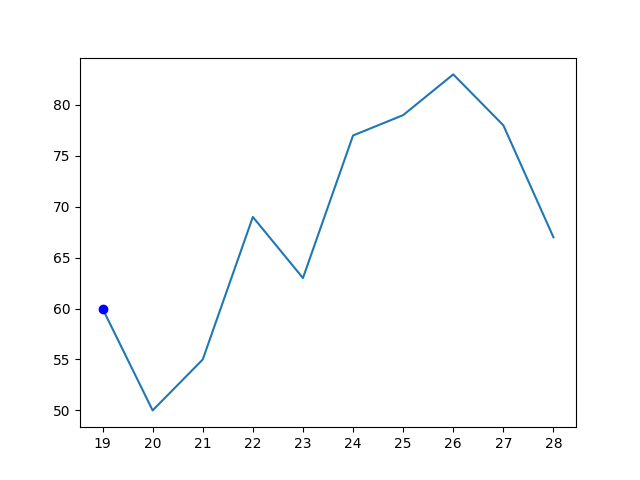
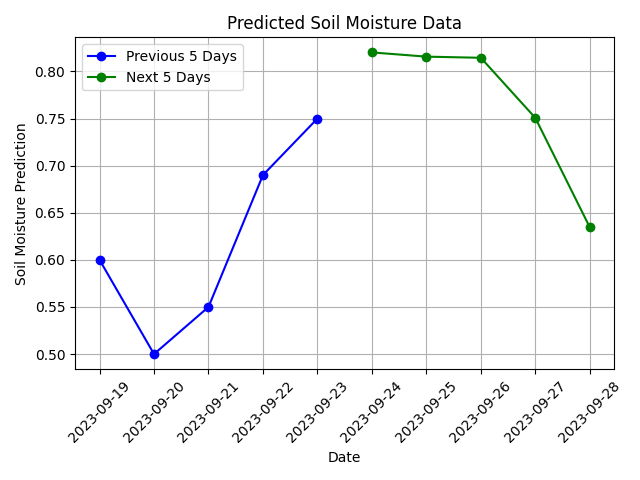
Updated Graphs

diff --git a/templates/chart.html b/templates/chart.html
@@ -2,7 +2,7 @@
 <html lang="en">
 
 <head>
-	<title>Matploth3b Plot</title>
+	<title>Soil Moisture Prediction Plot</title>
 	<meta name="viewport" content="width=device-width, initial-scale=1.0">
 	<style>
 		.div-cent{
@@ -15,7 +15,7 @@
 		@media (max-width: 768px) {
 		img {
 			width: 85%;
-			height: 40%;
+			height: 60%;
 		}
 }
 	</style>
@@ -24,13 +24,8 @@
 <body>
 	<div class="div-cent">
 		<h1>Soil Moisture Prediction for the next 5 days</h1>
-		<h2>The Prediction of soil moisture data from ML model of next 5 days:</h2>
-			<h3>{{no[0]}}th Sep: {{moisture_data[0]}}%</h3>
-			<h3>{{no[1]}}th Sep: {{moisture_data[1]}}%</h3>
-			<h3>{{no[2]}}th Sep: {{moisture_data[2]}}%</h3>
-			<h3>{{no[3]}}th Sep: {{moisture_data[3]}}%</h3>
-			<h3>{{no[4]}}th Sep: {{moisture_data[4]}}%</h3>
-		<img src="{{ url_for('static', filename='images/plot.png') }}"">
+	
+		<img src="{{ url_for('static', filename='images/plot.png') }}" />
 	</div>
 </body>
 

diff --git a/templates/index.html b/templates/index.html
@@ -3,7 +3,10 @@
 <head>
     <meta charset="UTF-8">
     <meta name="viewport" content="width=device-width, initial-scale=1.0">
-    <title>SMART FARMING</title>
+    <meta name="mobile-web-app-capable" content="yes">
+    <meta name="theme-color" content="#ffffff">
+    <link rel="icon" sizes="192x192" href="{{ url_for('static', filename='logo.png') }}">
+    <title>Krishi Connect</title>
     <link href="https://cdn.jsdelivr.net/npm/bootstrap@5.3.0-alpha3/dist/css/bootstrap.min.css" rel="stylesheet"
     integrity="sha384-KK94CHFLLe+nY2dmCWGMq91rCGa5gtU4mk92HdvYe+M/SXH301p5ILy+dN9+nJOZ" crossorigin="anonymous">
     <link rel="stylesheet" href="{{ url_for('static', filename='style.css') }}">

diff --git a/templates/index1.html b/templates/index1.html
@@ -2,7 +2,7 @@
 <html lang="en">
 
 <head>
-	<title>Matplotlib Plot</title>
+	<title>Rain Prediction Plot</title>
 	<meta name="viewport" content="width=device-width, initial-scale=1.0">
 	<style>
 		.div-cent{

diff --git a/app.py b/app.py
@@ -6,18 +6,15 @@ import joblib
 import requests
 from datetime import datetime,timedelta
 
-yes,no=[],[]
-presentday = datetime.now()
-for i in range(0,4):
-     a = presentday-timedelta(4-i)
-     yes.append(a.strftime("%d"))
-for i in range(0,5):
-     b = presentday+timedelta(i+1)    
-     no.append(b.strftime("%d"))
+def get_future_dates(start_date, num_days):
+    dates = []
+    for day in range(num_days):
+        date = start_date + timedelta(days=day)
+        dates.append(date.strftime("%Y-%m-%d"))
+    return dates
+
 url = "https://api.tomorrow.io/v4/weather/forecast?location=kolkata&timesteps=daily&apikey=NWbU1ceSDImxoVp6CmKLzUrXScmgL1c2"
-
 headers = {"accept": "application/json"}
-
 response = requests.get(url, headers=headers)
 data = response.json()  # Parse the JSON response
 
@@ -30,7 +27,6 @@ humidity_data = []
 pressure_data = []
 windspeed_data = []
 rain_data = []
-moisture_data = []
 
 # Extract data for each day
 for day_data in daily_forecast:
@@ -40,65 +36,84 @@ for day_data in daily_forecast:
     windspeed = day_data['values']['windSpeedAvg']
     rain = day_data['values']['rainAccumulationAvg']
     
-    # Add your code here to calculate or fetch moisture data
-    # For now, I'm setting it to a placeholder value
-    
-    
-    # Append data to respective lists
     temperature_data.append(temperature)
     humidity_data.append(humidity)
     pressure_data.append(pressure)
     windspeed_data.append(windspeed)
     rain_data.append(rain)
 
-
+# Load the soil moisture prediction model
 model = joblib.load('soil_moisture_model.pkl')
 
 # Create a list of input values and reshape it to match the model's input format
+input_data = []
 for day in range(5):
-    input_data = [[temperature_data[day], humidity_data[day], pressure_data[day]/10, windspeed_data[day], rain_data[day]]]
+    input_data.append([temperature_data[day], humidity_data[day], pressure_data[day]/10, windspeed_data[day], rain_data[day]])
 
-    # Make predictions
-    soil_moisture_prediction = model.predict(input_data)
+# Make predictions for the next 5 days
+soil_moisture_predictions = model.predict(input_data)
 
-    # Print the predicted soil moisture value
-    moisture_data.append(round(soil_moisture_prediction[0]*100, 2))
+# Synthetic data for the previous 5 days (you can replace this with actual data)
+synthetic_data = [0.60, 0.50, 0.55, 0.69, 0.75]
 
+# Combine the previous and next 5 days of soil moisture data
+soil_moisture_data = synthetic_data + list(soil_moisture_predictions)
 
-x = np.array([yes[0],yes[1],yes[2],yes[3],presentday.strftime("%d"),no[0],no[1],no[2],no[3],no[4]]) # array to be plotted
-y = np.array([60,50,55,69,63,0,0,0,0,0]) # array to be plotted
-for i in range(5):
-    y[5+i] = moisture_data[i]
+# Get future dates
+current_date = datetime.now()
+future_dates = get_future_dates(current_date, 5)
+past_dates = get_future_dates(current_date - timedelta(days=5), 5)
 
-subArray = [60,moisture_data[4]] 
-ids = np.nonzero(np.in1d(y, subArray))[0]
+# Plot soil moisture data with different colors and labels
+plt.plot(past_dates, synthetic_data, label='Previous 5 Days', color='blue', marker='o')
+plt.plot(future_dates, soil_moisture_predictions, label='Next 5 Days', color='green', marker='o')
 
-plt.plot(x,y)
-plt.plot(x[ids], y[ids], 'bo')
+# Rotate x-axis labels for better visibility
+plt.xticks(rotation=45)
+
+# Add labels and legend
+plt.xlabel('Date')
+plt.ylabel('Soil Moisture Prediction')
+plt.legend()
+plt.title('Predicted Soil Moisture Data')
+plt.grid(True)
+
+# Show the plot
+plt.tight_layout()
+# plt.show()
 plt.savefig(os.path.join('static', 'images', 'plot.png'))
 plt.close('all')
 
-x1 = np.array([no[0],no[1],no[2],no[3],no[4]]) # array to be plotted
-y1 = np.array([0,0,0,0,0]) # array to be plotted
-for i in range(5):
-    y1[i] = rain_data[i]
+x1 = np.array([0, 1, 2, 3, 4])  # Use day indices as x-axis values
+y1 = np.array(rain_data)
 
-subArray = [rain_data[0],rain_data[4]] 
+# Set tick labels for the x-axis
+x_labels = [day_data['time'][:10] for day_data in daily_forecast]
+plt.xticks(x1, x_labels, rotation=45)
+
+subArray = [rain_data[0], rain_data[4]]
 ids1 = np.nonzero(np.in1d(y1, subArray))[0]
 
-plt.plot(x1,y1)
+plt.plot(x1, y1)
 plt.plot(x1[ids1], y1[ids1], 'bo')
 
+plt.xlabel('Date')
+plt.ylabel('Rain Accumulation (Avg)')
+plt.title('Predicted Rain Data')
+plt.grid(True)
+
+# Adjust the margins to ensure the entire plot is visible
+plt.subplots_adjust(bottom=0.2)
 # Save the figure in the static directory
 plt.savefig(os.path.join('static', 'images', 'plot2.png'))
 print("plot generated!")
 
 app = Flask(__name__)
-
+esp_url = "http://192.168.95.93"
 # Function to fetch temperature data
 def fetch_temperature():
     try:
-        response = requests.get('http://192.168.95.93/temperature')
+        response = requests.get(f'{esp_url}/temperature')
         if response.status_code == 200:
             return response.text
     except Exception as e:
@@ -107,7 +122,7 @@ def fetch_temperature():
 
 def fetch_humidity():
     try:
-        response = requests.get('http://192.168.95.93/humidity')
+        response = requests.get(f'{esp_url}/humidity')
         if response.status_code == 200:
             return response.text
     except Exception as e:
@@ -116,7 +131,7 @@ def fetch_humidity():
 
 def fetch_ldr():
     try:
-        response = requests.get('http://192.168.95.93/ldr')
+        response = requests.get(f'{esp_url}/ldr')
         if response.status_code == 200:
             return response.text
     except Exception as e:
@@ -125,7 +140,7 @@ def fetch_ldr():
 
 def fetch_soil():
     try:
-        response = requests.get('http://192.168.95.93/soil-mois')
+        response = requests.get(f'{esp_url}/soil-mois')
         if response.status_code == 200:
             return response.text
     except Exception as e:
@@ -134,7 +149,7 @@ def fetch_soil():
 
 def fetch_rain():
     try:
-        response = requests.get('http://192.168.95.93/rain')
+        response = requests.get(f'{esp_url}/rain')
         if response.status_code == 200:
             return response.text
     except Exception as e:
@@ -176,7 +191,8 @@ def index1():
 
 @app.route('/chart_soilms')
 def single_converter():
-    return render_template('chart.html',moisture_data=moisture_data, no=no)
+    soilms_data = [round(i, 3) for i in soil_moisture_predictions]
+    return render_template('chart.html', no=future_dates)
 
 
 if __name__ == '__main__':\

diff --git a/TEST.PY b/TEST.PY
@@ -1,10 +1,20 @@
 import joblib
 import requests
+import numpy as np
+import matplotlib.pyplot as plt
+from datetime import datetime, timedelta
 
+# Function to get future dates
+def get_future_dates(start_date, num_days):
+    dates = []
+    for day in range(num_days):
+        date = start_date + timedelta(days=day)
+        dates.append(date.strftime("%Y-%m-%d"))
+    return dates
+
+# API request to get future weather data
 url = "https://api.tomorrow.io/v4/weather/forecast?location=kolkata&timesteps=daily&apikey=NWbU1ceSDImxoVp6CmKLzUrXScmgL1c2"
-
 headers = {"accept": "application/json"}
-
 response = requests.get(url, headers=headers)
 data = response.json()  # Parse the JSON response
 
@@ -26,30 +36,48 @@ for day_data in daily_forecast:
     windspeed = day_data['values']['windSpeedAvg']
     rain = day_data['values']['rainAccumulationAvg']
     
-    # Add your code here to calculate or fetch moisture data
-    # For now, I'm setting it to a placeholder value
-    
-    
-    # Append data to respective lists
     temperature_data.append(temperature)
     humidity_data.append(humidity)
     pressure_data.append(pressure)
     windspeed_data.append(windspeed)
     rain_data.append(rain)
 
-# Print the extracted data for 5 days
-# for day in range(5):
-    # print(f"Day {day + 1} - Temperature: {temperature_data[day]}°C, Humidity: {humidity_data[day]}%, Pressure: {pressure_data[day]} hPa, Wind Speed: {windspeed_data[day]} m/s")
-
-
+# Load the soil moisture prediction model
 model = joblib.load('soil_moisture_model.pkl')
 
 # Create a list of input values and reshape it to match the model's input format
+input_data = []
 for day in range(5):
-    input_data = [[temperature_data[day], humidity_data[day], pressure_data[day]/10, windspeed_data[day], rain_data[day]]]
+    input_data.append([temperature_data[day], humidity_data[day], pressure_data[day]/10, windspeed_data[day], rain_data[day]])
 
-    # Make predictions
-    soil_moisture_prediction = model.predict(input_data)
+# Make predictions for the next 5 days
+soil_moisture_predictions = model.predict(input_data)
 
-    # Print the predicted soil moisture value
-    print(f"Predicted Soil Moisture for day{day+1}: {round(soil_moisture_prediction[0]*100, 2)}%")
+# Synthetic data for the previous 5 days (you can replace this with actual data)
+synthetic_data = [0.60, 0.50, 0.55, 0.69, 0.63]
+
+# Combine the previous and next 5 days of soil moisture data
+soil_moisture_data = synthetic_data + list(soil_moisture_predictions)
+
+# Get future dates
+current_date = datetime.now()
+future_dates = get_future_dates(current_date, 5)
+past_dates = get_future_dates(current_date - timedelta(days=5), 5)
+
+# Plot soil moisture data with different colors and labels
+plt.plot(past_dates, synthetic_data, label='Previous 5 Days', color='blue', marker='o')
+plt.plot(future_dates, soil_moisture_predictions, label='Next 5 Days', color='green', marker='o')
+
+# Rotate x-axis labels for better visibility
+plt.xticks(rotation=45)
+
+# Add labels and legend
+plt.xlabel('Date')
+plt.ylabel('Soil Moisture Prediction')
+plt.legend()
+plt.title('Predicted Soil Moisture Data')
+plt.grid(True)
+
+# Show the plot
+plt.tight_layout()
+plt.show()

diff --git a/test/weather.py b/test/weather.py
@@ -1,0 +1,42 @@
+import requests
+import numpy as np
+import os
+import matplotlib.pyplot as plt
+
+url = "https://api.tomorrow.io/v4/weather/forecast?location=kolkata&timesteps=daily&apikey=NWbU1ceSDImxoVp6CmKLzUrXScmgL1c2"
+
+headers = {"accept": "application/json"}
+
+response = requests.get(url, headers=headers)
+data = response.json()
+
+daily_forecast = data['timelines']['daily'][:5]
+rain_data = []
+
+for day_data in daily_forecast:
+    rain = day_data['values']['rainAccumulationAvg']
+    rain_data.append(rain)
+
+x1 = np.array([0, 1, 2, 3, 4])  # Use day indices as x-axis values
+y1 = np.array(rain_data)
+
+# Set tick labels for the x-axis
+x_labels = [day_data['time'][:10] for day_data in daily_forecast]
+plt.xticks(x1, x_labels, rotation=45)
+
+subArray = [rain_data[0], rain_data[4]]
+ids1 = np.nonzero(np.in1d(y1, subArray))[0]
+
+plt.plot(x1, y1)
+plt.plot(x1[ids1], y1[ids1], 'bo')
+
+plt.xlabel('Date')
+plt.ylabel('Rain Accumulation (Avg)')
+plt.title('Predicted Rain Data')
+plt.grid(True)
+
+# Adjust the margins to ensure the entire plot is visible
+plt.subplots_adjust(bottom=0.2)
+
+plt.savefig(os.path.join('rain.png'))
+print("Rain graph plotted!")
